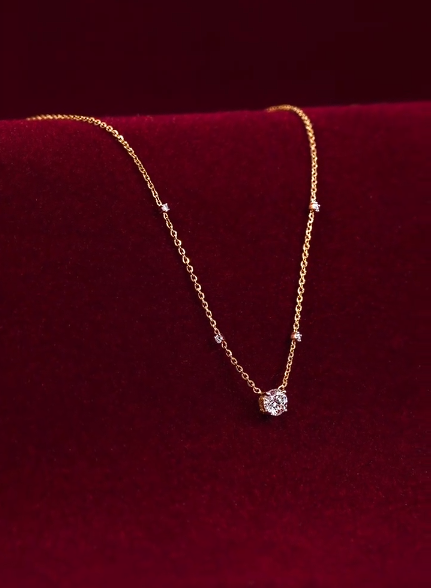
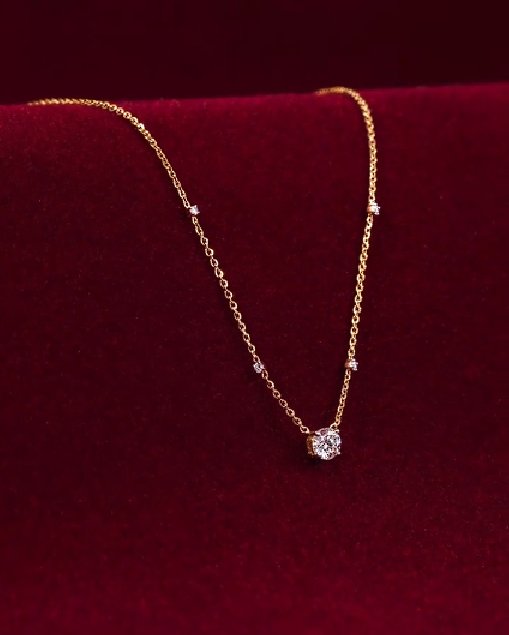
Use singular collection labels

Changed region(s): [[0.0, 0.0, 1.0, 1.0]]

diff --git a/src/components/Collections.jsx b/src/components/Collections.jsx
@@ -12,23 +12,23 @@ import bridalImg from '../assets/design10.jpg';
 // Collection data: titles and local images sourced from assets.
 const collections = [
   {
-    title: 'Diamond Rings',
+    title: 'Diamond Ring',
     img: ringsImg,
   },
   {
-    title: 'Earrings',
+    title: 'Earring',
     img: earringsImg,
   },
   {
-    title: 'Pendants',
+    title: 'Pendant',
     img: pendantsImg,
   },
   {
-    title: 'Necklaces',
+    title: 'Necklace',
     img: necklacesImg,
   },
   {
-    title: 'Bangles',
+    title: 'Bangle',
     img: banglesImg,
   },
   {
